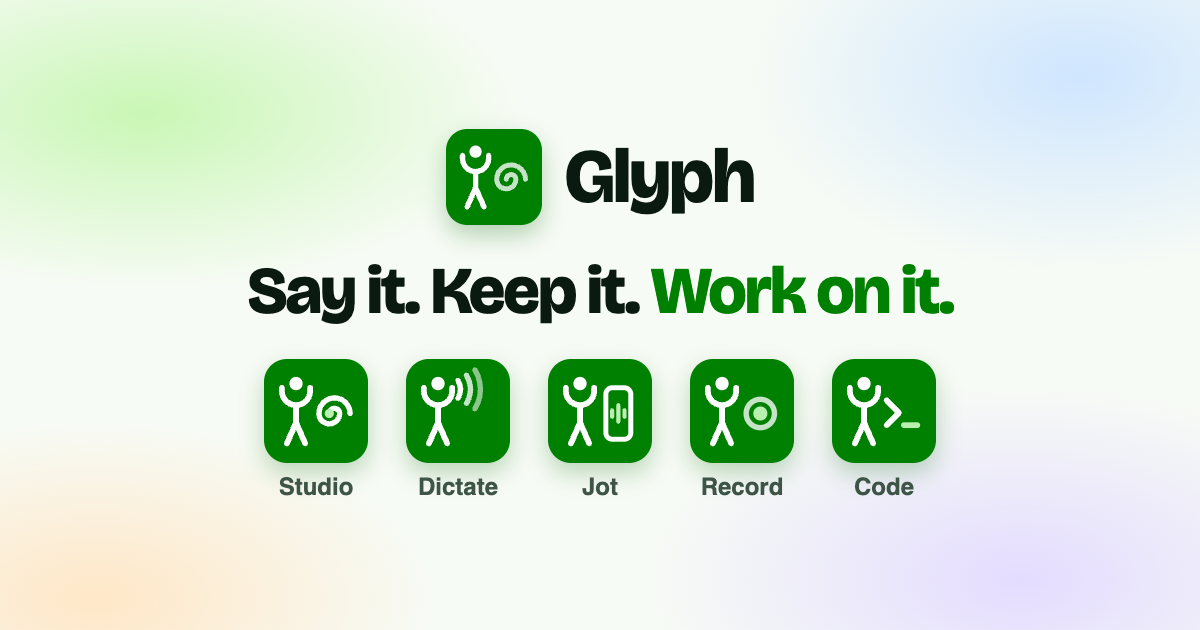
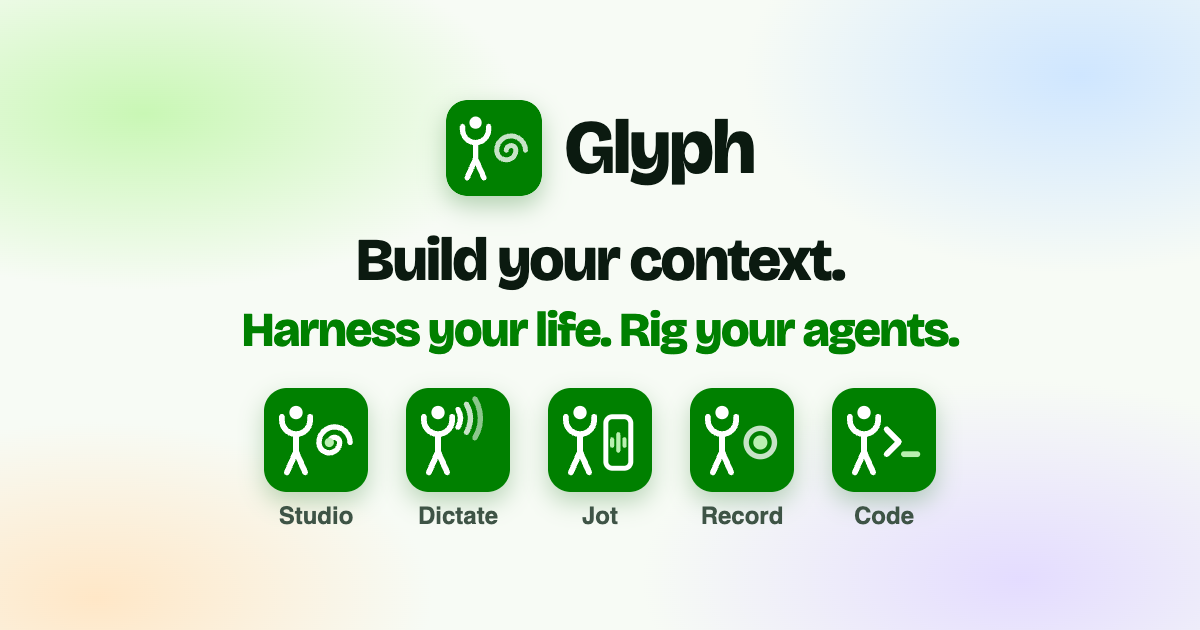
glyph.fru.dev: the home shows every app at work
- A stage on the right cycles through the five apps, each with its real
  demo or screenshots: Studio's council clip, Dictate's window and pill,
  Jot on iPhone, Record's window and recorder panel (light and dark), and
  Code's two named sessions. The app cards are the tabs, with a progress
  bar; hovering holds it, a tap picks one, and the caption links to the
  app's page.
- New words: "Build your context. Harness your life. Rig your agents."
  They live in docs/copy.json; scripts/home-copy.mjs writes them into the
  page, and scripts/og.mjs into the share image.

Claude-Session: https://claude.ai/code/session_012askAJo29fpX9HucGUhMSa

Changed region(s): [[0.185, 0.1508, 0.8017, 0.8444]]

diff --git a/docs/index.html b/docs/index.html
@@ -4,7 +4,7 @@
 <meta charset="utf-8">
 <meta name="viewport" content="width=device-width, initial-scale=1, viewport-fit=cover">
 <title>Glyph | Apps by fru.dev</title>
-<meta name="description" content="Glyph is a family of five apps by fru.dev. Glyph Dictate, Glyph Jot and Glyph Record catch what you say and think; Glyph Studio keeps it as plain files on your computer and lets any AI work on it; Glyph Code gives every coding agent one identity.">
+<meta name="description" content="Glyph captures what you say, jot and record, keeps it as plain files you own, and gives every AI agent you run the context to act on it.">
 <link rel="icon" href="/family/glyph-tile.svg" type="image/svg+xml">
 <link rel="icon" href="/family/glyph-192.png" type="image/png" sizes="192x192">
 <link rel="apple-touch-icon" href="/family/glyph-180.png">
@@ -17,16 +17,16 @@
 <meta property="og:site_name" content="Glyph by fru.dev">
 <meta property="og:type" content="website">
 <meta property="og:title" content="Glyph | Apps by fru.dev">
-<meta property="og:description" content="Five apps: say it, keep it on your computer, work on it with any AI.">
+<meta property="og:description" content="Glyph captures what you say, jot and record, keeps it as plain files you own, and gives every AI agent you run the context to act on it.">
 <meta property="og:url" content="https://glyph.fru.dev/">
 <meta property="og:image" content="https://glyph.fru.dev/og-image.png">
 <meta property="og:image:width" content="1200">
 <meta property="og:image:height" content="630">
-<meta property="og:image:alt" content="The Glyph family of app icons in office green, with the line Say it. Keep it. Work on it.">
+<meta property="og:image:alt" content="The Glyph family of app icons in office green">
 <meta name="twitter:card" content="summary_large_image">
 <meta name="twitter:site" content="@fru">
 <meta name="twitter:title" content="Glyph | Apps by fru.dev">
-<meta name="twitter:description" content="Five apps: say it, keep it on your computer, work on it with any AI.">
+<meta name="twitter:description" content="Glyph captures what you say, jot and record, keeps it as plain files you own, and gives every AI agent you run the context to act on it.">
 <meta name="twitter:image" content="https://glyph.fru.dev/og-image.png">
 <link rel="preconnect" href="https://fonts.googleapis.com">
 <link rel="preconnect" href="https://fonts.gstatic.com" crossorigin>
@@ -45,40 +45,42 @@
 ]}
 </script>
 <style>
-.fam{display:flex;flex-direction:column;align-items:center;justify-content:center;gap:clamp(16px,3.2vh,40px);width:min(100%,1320px)}
-.fam .brand b{font-size:clamp(30px,5vh,48px)}
-.fam .icon{width:clamp(56px,8.5vh,88px)}
-.fam h1{text-align:center;font-size:clamp(40px,min(10vh,8vw),120px)}
-.fam h1 em{display:block}
-.lede{margin:-.4em 0 0;max-width:46ch;color:var(--soft);font-size:clamp(16px,2.2vh,21px);line-height:1.45}
-.apps{list-style:none;margin:0;padding:0;display:grid;grid-template-columns:repeat(5,minmax(0,1fr));gap:clamp(10px,1.2vw,20px);width:100%}
-.app{height:100%;display:flex;flex-direction:column;align-items:center;gap:clamp(8px,1.4vh,14px);padding:clamp(16px,2.8vh,30px) clamp(12px,1.2vw,20px) clamp(14px,2.4vh,24px);
-  border-radius:24px;background:var(--card);border:1px solid var(--line);text-decoration:none;color:var(--ink);text-align:center;transition:transform .2s,box-shadow .2s,border-color .2s}
-.app:hover{transform:translateY(-4px);border-color:var(--tint-line);box-shadow:0 18px 40px var(--shadow)}
-.app img{width:clamp(56px,10vh,104px);height:auto;border-radius:22%;box-shadow:0 10px 24px rgba(0,100,0,.25)}
-.app b{font:800 clamp(20px,3vh,28px)/1.05 "Bricolage Grotesque",sans-serif;letter-spacing:-.02em}
-.app p{margin:0;color:var(--soft);font-size:clamp(14px,1.8vh,16px);line-height:1.4;flex:1}
-.st{display:inline-flex;align-items:center;gap:6px;padding:5px 11px;border-radius:999px;font-size:13px;font-weight:700;white-space:nowrap;background:var(--tint);color:var(--green);box-shadow:inset 0 0 0 1px var(--tint-line)}
-.st svg{width:15px;height:15px;flex:none}
-.st.wait{background:transparent;color:var(--dim);box-shadow:inset 0 0 0 1px var(--line)}
-.stars{display:inline-flex;align-items:center;gap:8px;padding:8px 14px 8px 12px;border-radius:999px;background:var(--pill);border:1px solid var(--line);color:var(--soft);font-size:15px;font-weight:600;text-decoration:none}
+/* the home: the promise on the left, the five apps at work on the right */
+.lede{margin:0;color:var(--soft);font-size:clamp(16px,2.2vh,21px);line-height:1.45;max-width:36ch}
+.stars{align-self:flex-start;display:inline-flex;align-items:center;gap:8px;padding:8px 14px 8px 12px;border-radius:999px;background:var(--pill);border:1px solid var(--line);color:var(--soft);font-size:15px;font-weight:600;text-decoration:none}
 .stars:hover{border-color:var(--green);color:var(--green)}
-.stars svg{width:17px;height:17px;color:var(--green)}
-.stars b{color:var(--ink)}
-/* phones and narrow windows: the apps as a list */
-@media (max-width:900px){
-  .apps{grid-template-columns:1fr;gap:8px;max-width:560px}
-  .app{flex-direction:row;text-align:left;gap:14px;padding:10px 14px;border-radius:18px}
-  .app img{width:48px}
-  .app .tx{flex:1;min-width:0}
-  .app b{font-size:19px}
-  .app p{font-size:14px;margin-top:2px}
-  .st{padding:4px 8px}
+.stars svg{width:17px;height:17px;color:var(--green)}.stars b{color:var(--ink)}
+h1 .l2{display:block;color:var(--green)}
+.stage{position:relative;width:100%;aspect-ratio:16/10;border-radius:20px;overflow:hidden;background:var(--card);border:1px solid var(--line);box-shadow:0 30px 60px var(--shadow)}
+.slide{position:absolute;inset:0;display:flex;align-items:center;justify-content:center;gap:4%;padding:4%;opacity:0;visibility:hidden;transition:opacity .5s,visibility 0s .5s}
+.slide.on{opacity:1;visibility:visible;transition:opacity .5s}
+.slide img,.slide video{max-width:100%;max-height:100%;object-fit:contain;border-radius:10px}
+.slide.full{padding:0}.slide.full video,.slide.full img{width:100%;height:100%;object-fit:cover;border-radius:0}
+.slide .ph{height:100%;width:auto;border-radius:clamp(14px,2.4vh,26px);border:clamp(3px,.5vh,6px) solid #0B0F0C;background:#0B0F0C}
+.slide .panel{position:absolute;right:4%;bottom:5%;width:34%;box-shadow:0 14px 30px var(--shadow);border-radius:12px}
+.slide .pill{position:absolute;left:50%;bottom:5%;transform:translateX(-50%);display:flex;align-items:center;gap:3px;height:clamp(34px,5vh,50px);padding:0 clamp(16px,2vh,24px);border-radius:999px;background:#0B0F0C;color:#fff;font:600 clamp(13px,1.8vh,17px) -apple-system,sans-serif;white-space:nowrap;box-shadow:0 12px 30px rgba(0,0,0,.3)}
+.slide .pill i{display:block;width:4px;height:6px;border-radius:2px;background:#fff;animation:wv 1s ease-in-out infinite;animation-delay:calc(var(--k) * -.12s)}
+.slide .pill b{margin-left:10px}
+@keyframes wv{0%,100%{height:5px}50%{height:clamp(14px,2.4vh,22px)}}
+.cap{display:flex;align-items:center;justify-content:space-between;gap:12px;width:100%;font-size:clamp(15px,1.9vh,17px);color:var(--soft)}
+.cap a{font-weight:700;text-decoration:none;white-space:nowrap}.cap a:hover{text-decoration:underline}
+.tabs{list-style:none;margin:0;padding:0;display:grid;grid-template-columns:repeat(5,minmax(0,1fr));gap:clamp(6px,.7vw,12px);width:100%}
+.tab{position:relative;overflow:hidden;width:100%;display:flex;flex-direction:column;align-items:center;gap:6px;padding:clamp(8px,1.4vh,14px) 6px;border-radius:16px;border:1px solid var(--line);background:var(--card);color:var(--ink);font:inherit;cursor:pointer}
+.tab img{width:clamp(34px,5.4vh,52px);height:auto;border-radius:22%}
+.tab b{font:800 clamp(15px,2vh,19px)/1 "Bricolage Grotesque",sans-serif}
+.tab .st{display:inline-flex;align-items:center;gap:4px;font-size:12px;font-weight:700;color:var(--green)}
+.tab .st.wait{color:var(--dim)}.tab .st svg{width:13px;height:13px}
+.tab[aria-selected=true]{border-color:var(--tint-line);background:var(--tint)}
+.tab[aria-selected=true]::after{content:"";position:absolute;left:0;bottom:0;height:3px;width:100%;background:var(--green);transform-origin:left;animation:fill var(--dur,7s) linear forwards}
+.tabs.hold .tab::after{animation-play-state:paused}
+@keyframes fill{from{transform:scaleX(0)}}
+@media not ((min-width:960px) and (min-height:560px)){
+  .lede{display:none}.stars{align-self:center}
+  .right{display:flex;flex-direction:column;gap:12px;order:2;width:min(100%,560px)}
+  .left .top{order:1}.left .stars{order:3}
 }
-@media (max-width:600px) and (max-height:960px){.lede{display:none}}
-@media (max-width:440px){.st span{display:none}.st{padding:6px}}
-@media (min-width:901px){.app .tx{display:contents}}
-@media (min-width:960px) and (min-height:560px){main.homemain{display:flex;padding:5vh clamp(32px,5vw,96px) calc(44px + 5vh);height:100svh;min-height:0}}
+@media (max-width:520px){.tab{padding:8px 2px;border-radius:12px}.tab .st span{display:none}.tab b{font-size:14px}}
+@media (min-width:960px) and (min-height:560px){.left{justify-content:center;gap:clamp(18px,3.4vh,36px)}.right{gap:clamp(10px,1.8vh,18px)}.stage{width:min(100%,calc((100svh - 44px - 10vh - 190px) * 1.6))}}
 /* how they fit */
 .flow{display:grid;grid-template-columns:1fr auto 1fr auto 1fr;align-items:center;gap:10px;padding:22px 28px 6px}
 .srcs{display:flex;flex-direction:column;gap:8px}
@@ -101,19 +103,31 @@
 </style>
 </head>
 <body data-page="home">
-<main class="homemain">
-  <div class="fam home-wrap">
-    <a class="brand" href="/"><img class="icon" src="/family/glyph-tile.svg" width="80" height="80" alt=""><div><b>Glyph</b><span>Five apps by fru.dev</span></div></a>
-    <h1 data-lines='["Work on it.","On your Mac.","With any AI."]' data-fit=".apps">Say it. Keep it. <em><span id="said">Work on it.</span><i class="caret" aria-hidden="true"></i></em></h1>
-    <p class="lede">Catch what you say and think, keep it as plain files on your own computer, and let any AI work on it.</p>
-    <ul class="apps">
-      <li><a class="app" href="/studio"><img src="/family/studio-tile.svg" width="96" height="96" alt=""><span class="tx"><b>Studio</b><p>A private AI harness for your life, on any model.</p></span><span class="st" title="Download for Mac or Windows"><svg viewBox="0 0 24 24" fill="none" stroke="currentColor" stroke-width="2.4" stroke-linecap="round" stroke-linejoin="round" aria-hidden="true"><path d="M12 3v12m0 0l-5-5m5 5l5-5M5 21h14"/></svg><span>Mac, Windows</span></span></a></li>
-      <li><a class="app" href="/dictate"><img src="/family/dictate-tile.svg" width="96" height="96" alt=""><span class="tx"><b>Dictate</b><p>Talk, and it types in any app, on Mac or iPhone.</p></span><span class="st" title="Download for Mac; the iPhone keyboard is in testing"><svg viewBox="0 0 24 24" fill="none" stroke="currentColor" stroke-width="2.4" stroke-linecap="round" stroke-linejoin="round" aria-hidden="true"><path d="M12 3v12m0 0l-5-5m5 5l5-5M5 21h14"/></svg><span>Mac</span></span></a></li>
-      <li><a class="app" href="/jot"><img src="/family/mobile-tile.svg" width="96" height="96" alt=""><span class="tx"><b>Jot</b><p>Catch a thought as a note, on iPhone or Mac.</p></span><span class="st wait" title="In testing, not on the App Store yet"><svg viewBox="0 0 24 24" fill="none" stroke="currentColor" stroke-width="2.2" stroke-linecap="round" stroke-linejoin="round" aria-hidden="true"><path d="M9 3h6M10 3v6L4.5 18.5A1.7 1.7 0 006 21h12a1.7 1.7 0 001.5-2.5L14 9V3"/><path d="M7 15h10"/></svg><span>In testing</span></span></a></li>
-      <li><a class="app" href="/record"><img src="/family/record-tile.svg" width="96" height="96" alt=""><span class="tx"><b>Record</b><p>Meetings and calls, filed by who was there.</p></span><span class="st" title="Download for Mac"><svg viewBox="0 0 24 24" fill="none" stroke="currentColor" stroke-width="2.4" stroke-linecap="round" stroke-linejoin="round" aria-hidden="true"><path d="M12 3v12m0 0l-5-5m5 5l5-5M5 21h14"/></svg><span>Mac</span></span></a></li>
-      <li><a class="app" href="/code"><img src="/family/code-tile.svg" width="96" height="96" alt=""><span class="tx"><b>Code</b><p>One identity for every coding agent you run.</p></span><span class="st" title="A command-line tool for zsh"><svg viewBox="0 0 24 24" fill="none" stroke="currentColor" stroke-width="2.4" stroke-linecap="round" stroke-linejoin="round" aria-hidden="true"><path d="M4 17l6-6-6-6M12 19h8"/></svg><span>CLI</span></span></a></li>
-    </ul>
+<main>
+  <div class="left">
+    <div class="top">
+      <a class="brand" href="/"><img class="icon" src="/family/glyph-tile.svg" width="80" height="80" alt=""><div><b>Glyph</b><span id="copy-label">by fru.dev</span></div></a>
+      <h1 data-lines='["Harness your life."]' data-fit=".left, .tabs"><span id="copy-h1">Build your context.</span> <em><span id="said">Harness your life.</span></em><span class="l2" id="copy-h1b">Rig your agents.</span></h1>
+    </div>
+    <p class="lede" id="copy-sub">Glyph captures what you say, jot and record, keeps it as plain files you own, and gives every AI agent you run the context to act on it.</p>
     <a class="stars" href="https://github.com/fru-dev3" data-track="star_on_github" data-stars="fru-dev3/glyph-studio,fru-dev3/glyph-dictate,fru-dev3/glyph-record,fru-dev3/glyph" data-floor="44" title="Stars across the Glyph repositories on GitHub"><svg viewBox="0 0 24 24" fill="currentColor" aria-hidden="true"><path d="M12 3l2.8 5.7 6.2.9-4.5 4.4 1 6.2L12 17.3 6.5 20.2l1-6.2L3 9.6l6.2-.9z"/></svg><span><b class="n">44</b> stars on GitHub</span></a>
+  </div>
+  <div class="right">
+    <div class="stage" aria-live="polite">
+      <div class="slide full on" data-k="studio"><video muted playsinline preload="metadata" poster="/studio/demos/council-light-start.webp" aria-label="Glyph Studio: a council of models answers a money question"></video></div>
+      <div class="slide" data-k="dictate"><img src="/dictate/app-ask.webp" width="1600" height="1189" alt="Glyph Dictate: today's dictations into Slack, Terminal, Mail and Notes" loading="lazy"><div class="pill" aria-hidden="true"><i style="--k:0"></i><i style="--k:1"></i><i style="--k:2"></i><i style="--k:3"></i><i style="--k:4"></i><i style="--k:5"></i><i style="--k:6"></i><b>0:04</b></div></div>
+      <div class="slide" data-k="jot"><img class="ph" src="/jot/iphone-rec.webp" width="506" height="1100" alt="Glyph Jot on iPhone, the words appearing as you talk" loading="lazy"><img class="ph" src="/jot/iphone-home.webp" width="506" height="1100" alt="Glyph Jot's notes with their tags" loading="lazy"></div>
+      <div class="slide" data-k="record"><picture><source srcset="/record/app-dark.webp" media="(prefers-color-scheme: dark)"><img src="/record/app-light.webp" width="1600" height="1000" alt="Glyph Record: a call filed by person, company and tags, with its summary" loading="lazy"></picture><picture><source srcset="/record/panel-dark.webp" media="(prefers-color-scheme: dark)"><img class="panel" src="/record/panel-light.webp" width="720" height="272" alt="The recorder panel" loading="lazy"></picture></div>
+      <div class="slide" data-k="code"><img src="/code/terminal.webp" width="1158" height="906" alt="Glyph Code: two named agent sessions side by side" loading="lazy"></div>
+    </div>
+    <div class="cap"><span id="capline">A private AI harness for your life, on any model.</span><a id="capgo" href="/studio">Open Glyph Studio</a></div>
+    <div class="tabs" role="tablist" aria-label="The Glyph apps">
+      <button class="tab" role="tab" aria-selected="true" data-k="studio" data-href="/studio" data-name="Glyph Studio" data-line="A private AI harness for your life, on any model."><img src="/family/studio-tile.svg" alt=""><b>Studio</b><span class="st"><svg viewBox="0 0 24 24" fill="none" stroke="currentColor" stroke-width="2.4" stroke-linecap="round" stroke-linejoin="round" aria-hidden="true"><path d="M12 3v12m0 0l-5-5m5 5l5-5M5 21h14"/></svg><span>Mac, Win</span></span></button>
+      <button class="tab" role="tab" aria-selected="false" data-k="dictate" data-href="/dictate" data-name="Glyph Dictate" data-line="Talk, and it types in any app, on Mac or iPhone."><img src="/family/dictate-tile.svg" alt=""><b>Dictate</b><span class="st"><svg viewBox="0 0 24 24" fill="none" stroke="currentColor" stroke-width="2.4" stroke-linecap="round" stroke-linejoin="round" aria-hidden="true"><path d="M12 3v12m0 0l-5-5m5 5l5-5M5 21h14"/></svg><span>Mac</span></span></button>
+      <button class="tab" role="tab" aria-selected="false" data-k="jot" data-href="/jot" data-name="Glyph Jot" data-line="Catch a thought as a note, on iPhone or Mac."><img src="/family/mobile-tile.svg" alt=""><b>Jot</b><span class="st wait"><svg viewBox="0 0 24 24" fill="none" stroke="currentColor" stroke-width="2.2" stroke-linecap="round" stroke-linejoin="round" aria-hidden="true"><path d="M9 3h6M10 3v6L4.5 18.5A1.7 1.7 0 006 21h12a1.7 1.7 0 001.5-2.5L14 9V3"/><path d="M7 15h10"/></svg><span>In testing</span></span></button>
+      <button class="tab" role="tab" aria-selected="false" data-k="record" data-href="/record" data-name="Glyph Record" data-line="Meetings and calls, filed by who was there."><img src="/family/record-tile.svg" alt=""><b>Record</b><span class="st"><svg viewBox="0 0 24 24" fill="none" stroke="currentColor" stroke-width="2.4" stroke-linecap="round" stroke-linejoin="round" aria-hidden="true"><path d="M12 3v12m0 0l-5-5m5 5l5-5M5 21h14"/></svg><span>Mac</span></span></button>
+      <button class="tab" role="tab" aria-selected="false" data-k="code" data-href="/code" data-name="Glyph Code" data-line="One identity for every coding agent you run."><img src="/family/code-tile.svg" alt=""><b>Code</b><span class="st"><svg viewBox="0 0 24 24" fill="none" stroke="currentColor" stroke-width="2.4" stroke-linecap="round" stroke-linejoin="round" aria-hidden="true"><path d="M4 17l6-6-6-6M12 19h8"/></svg><span>CLI</span></span></button>
+    </div>
   </div>
 </main>
 
@@ -152,5 +166,25 @@
   </div>
 </footer>
 <script src="/site.js"></script>
+<script>
+// The stage: each app at work for seven seconds (Studio plays its clip through), a tap picks one, hovering holds it.
+const tabs=document.querySelector(".tabs"),bs=[...tabs.querySelectorAll(".tab")],sl=[...document.querySelectorAll(".slide")];
+const v=document.querySelector(".slide video"),dark=matchMedia("(prefers-color-scheme: dark)"),capline=document.getElementById("capline"),capgo=document.getElementById("capgo");
+let i=0,timer,held=false;
+function show(n){i=n;const b=bs[n];bs.forEach(x=>x.setAttribute("aria-selected",x===b));sl.forEach(s=>s.classList.toggle("on",s.dataset.k===b.dataset.k));
+  capline.textContent=b.dataset.line;capgo.textContent="Open "+b.dataset.name;capgo.href=b.dataset.href;
+  bs.forEach(x=>x.style.removeProperty("--dur"));
+  if(b.dataset.k==="studio"){const sfx=dark.matches?"":"-light";v.poster=`/studio/demos/council${sfx}-start.webp`;if(!v.src.includes("council"+sfx+".mp4"))v.src=`/studio/demos/council${sfx}.mp4`;v.currentTime=dark.matches?.3:.8;if(!still)v.play().catch(()=>{})}else v.pause();
+  clearTimeout(timer);if(still||held)return;
+  const dur=b.dataset.k==="studio"&&v.duration?Math.max(7,v.duration-1):7;b.style.setProperty("--dur",dur+"s");
+  b.style.animation="none";b.offsetWidth;b.style.animation="";timer=setTimeout(()=>show((i+1)%bs.length),dur*1000)}
+bs.forEach((b,n)=>b.addEventListener("click",()=>{show(n);try{gtag("event","home_stage",{app:b.dataset.k})}catch{}}));
+const st=document.querySelector(".right");
+st.addEventListener("mouseenter",()=>{held=true;clearTimeout(timer);tabs.classList.add("hold")});
+st.addEventListener("mouseleave",()=>{held=false;tabs.classList.remove("hold");show(i)});
+v.addEventListener("loadedmetadata",()=>{if(bs[i].dataset.k==="studio"&&!held)show(i)},{once:true});
+dark.addEventListener("change",()=>show(i));
+show(0);
+</script>
 </body>
 </html>

diff --git a/docs/site.js b/docs/site.js
@@ -51,7 +51,7 @@ async function typeLoop() {
 // only when the widest one doesn't fit. The face changes shape with size, so refine a few times.
 function fitH1() {
   if (!h1) return;
-  const col = $(h1.dataset.fit || ".cta");
+  const col = (h1.dataset.fit || ".cta").split(",").map((q) => $(q.trim())).find((el) => el && el.getBoundingClientRect().width);
   if (!col) return;
   h1.style.fontSize = "";
   const keep = said.textContent, rng = document.createRange();
@@ -88,7 +88,7 @@ function fitRight() {
 function fitAll() { fitH1(); fitRight(); }
 fitAll(); addEventListener("resize", fitAll); addEventListener("load", fitAll);
 document.fonts?.ready.then(fitAll);
-if (h1 && !still) typeLoop();
+if (h1 && !still && lines.length > 1) typeLoop();
 
 // Copy a command (the install line).
 $$("button[data-copy]").forEach((b) => b.addEventListener("click", () => {

diff --git a/docs/code/index.html b/docs/code/index.html
@@ -22,7 +22,7 @@
 <meta property="og:image" content="https://glyph.fru.dev/og-image.png">
 <meta property="og:image:width" content="1200">
 <meta property="og:image:height" content="630">
-<meta property="og:image:alt" content="The Glyph family of app icons in office green, with the line Say it. Keep it. Work on it.">
+<meta property="og:image:alt" content="The Glyph family of app icons in office green">
 <meta name="twitter:card" content="summary_large_image">
 <meta name="twitter:site" content="@fru">
 <meta name="twitter:image" content="https://glyph.fru.dev/og-image.png">

diff --git a/docs/dictate/index.html b/docs/dictate/index.html
@@ -22,7 +22,7 @@
 <meta property="og:image" content="https://glyph.fru.dev/og-image.png">
 <meta property="og:image:width" content="1200">
 <meta property="og:image:height" content="630">
-<meta property="og:image:alt" content="The Glyph family of app icons in office green, with the line Say it. Keep it. Work on it.">
+<meta property="og:image:alt" content="The Glyph family of app icons in office green">
 <meta name="twitter:card" content="summary_large_image">
 <meta name="twitter:site" content="@fru">
 <meta name="twitter:image" content="https://glyph.fru.dev/og-image.png">

diff --git a/docs/jot/index.html b/docs/jot/index.html
@@ -22,7 +22,7 @@
 <meta property="og:image" content="https://glyph.fru.dev/og-image.png">
 <meta property="og:image:width" content="1200">
 <meta property="og:image:height" content="630">
-<meta property="og:image:alt" content="The Glyph family of app icons in office green, with the line Say it. Keep it. Work on it.">
+<meta property="og:image:alt" content="The Glyph family of app icons in office green">
 <meta name="twitter:card" content="summary_large_image">
 <meta name="twitter:site" content="@fru">
 <meta name="twitter:image" content="https://glyph.fru.dev/og-image.png">

diff --git a/docs/record/index.html b/docs/record/index.html
@@ -22,7 +22,7 @@
 <meta property="og:image" content="https://glyph.fru.dev/og-image.png">
 <meta property="og:image:width" content="1200">
 <meta property="og:image:height" content="630">
-<meta property="og:image:alt" content="The Glyph family of app icons in office green, with the line Say it. Keep it. Work on it.">
+<meta property="og:image:alt" content="The Glyph family of app icons in office green">
 <meta name="twitter:card" content="summary_large_image">
 <meta name="twitter:site" content="@fru">
 <meta name="twitter:image" content="https://glyph.fru.dev/og-image.png">

diff --git a/docs/studio/index.html b/docs/studio/index.html
@@ -22,7 +22,7 @@
 <meta property="og:image" content="https://glyph.fru.dev/og-image.png">
 <meta property="og:image:width" content="1200">
 <meta property="og:image:height" content="630">
-<meta property="og:image:alt" content="The Glyph family of app icons in office green, with the line Say it. Keep it. Work on it.">
+<meta property="og:image:alt" content="The Glyph family of app icons in office green">
 <meta name="twitter:card" content="summary_large_image">
 <meta name="twitter:site" content="@fru">
 <meta name="twitter:image" content="https://glyph.fru.dev/og-image.png">

diff --git a/docs/docs.html b/docs/docs.html
@@ -22,7 +22,7 @@
 <meta property="og:image" content="https://glyph.fru.dev/og-image.png">
 <meta property="og:image:width" content="1200">
 <meta property="og:image:height" content="630">
-<meta property="og:image:alt" content="The Glyph family of app icons in office green, with the line Say it. Keep it. Work on it.">
+<meta property="og:image:alt" content="The Glyph family of app icons in office green">
 <meta name="twitter:card" content="summary_large_image">
 <meta name="twitter:site" content="@fru">
 <meta name="twitter:title" content="Docs | Glyph Code">
